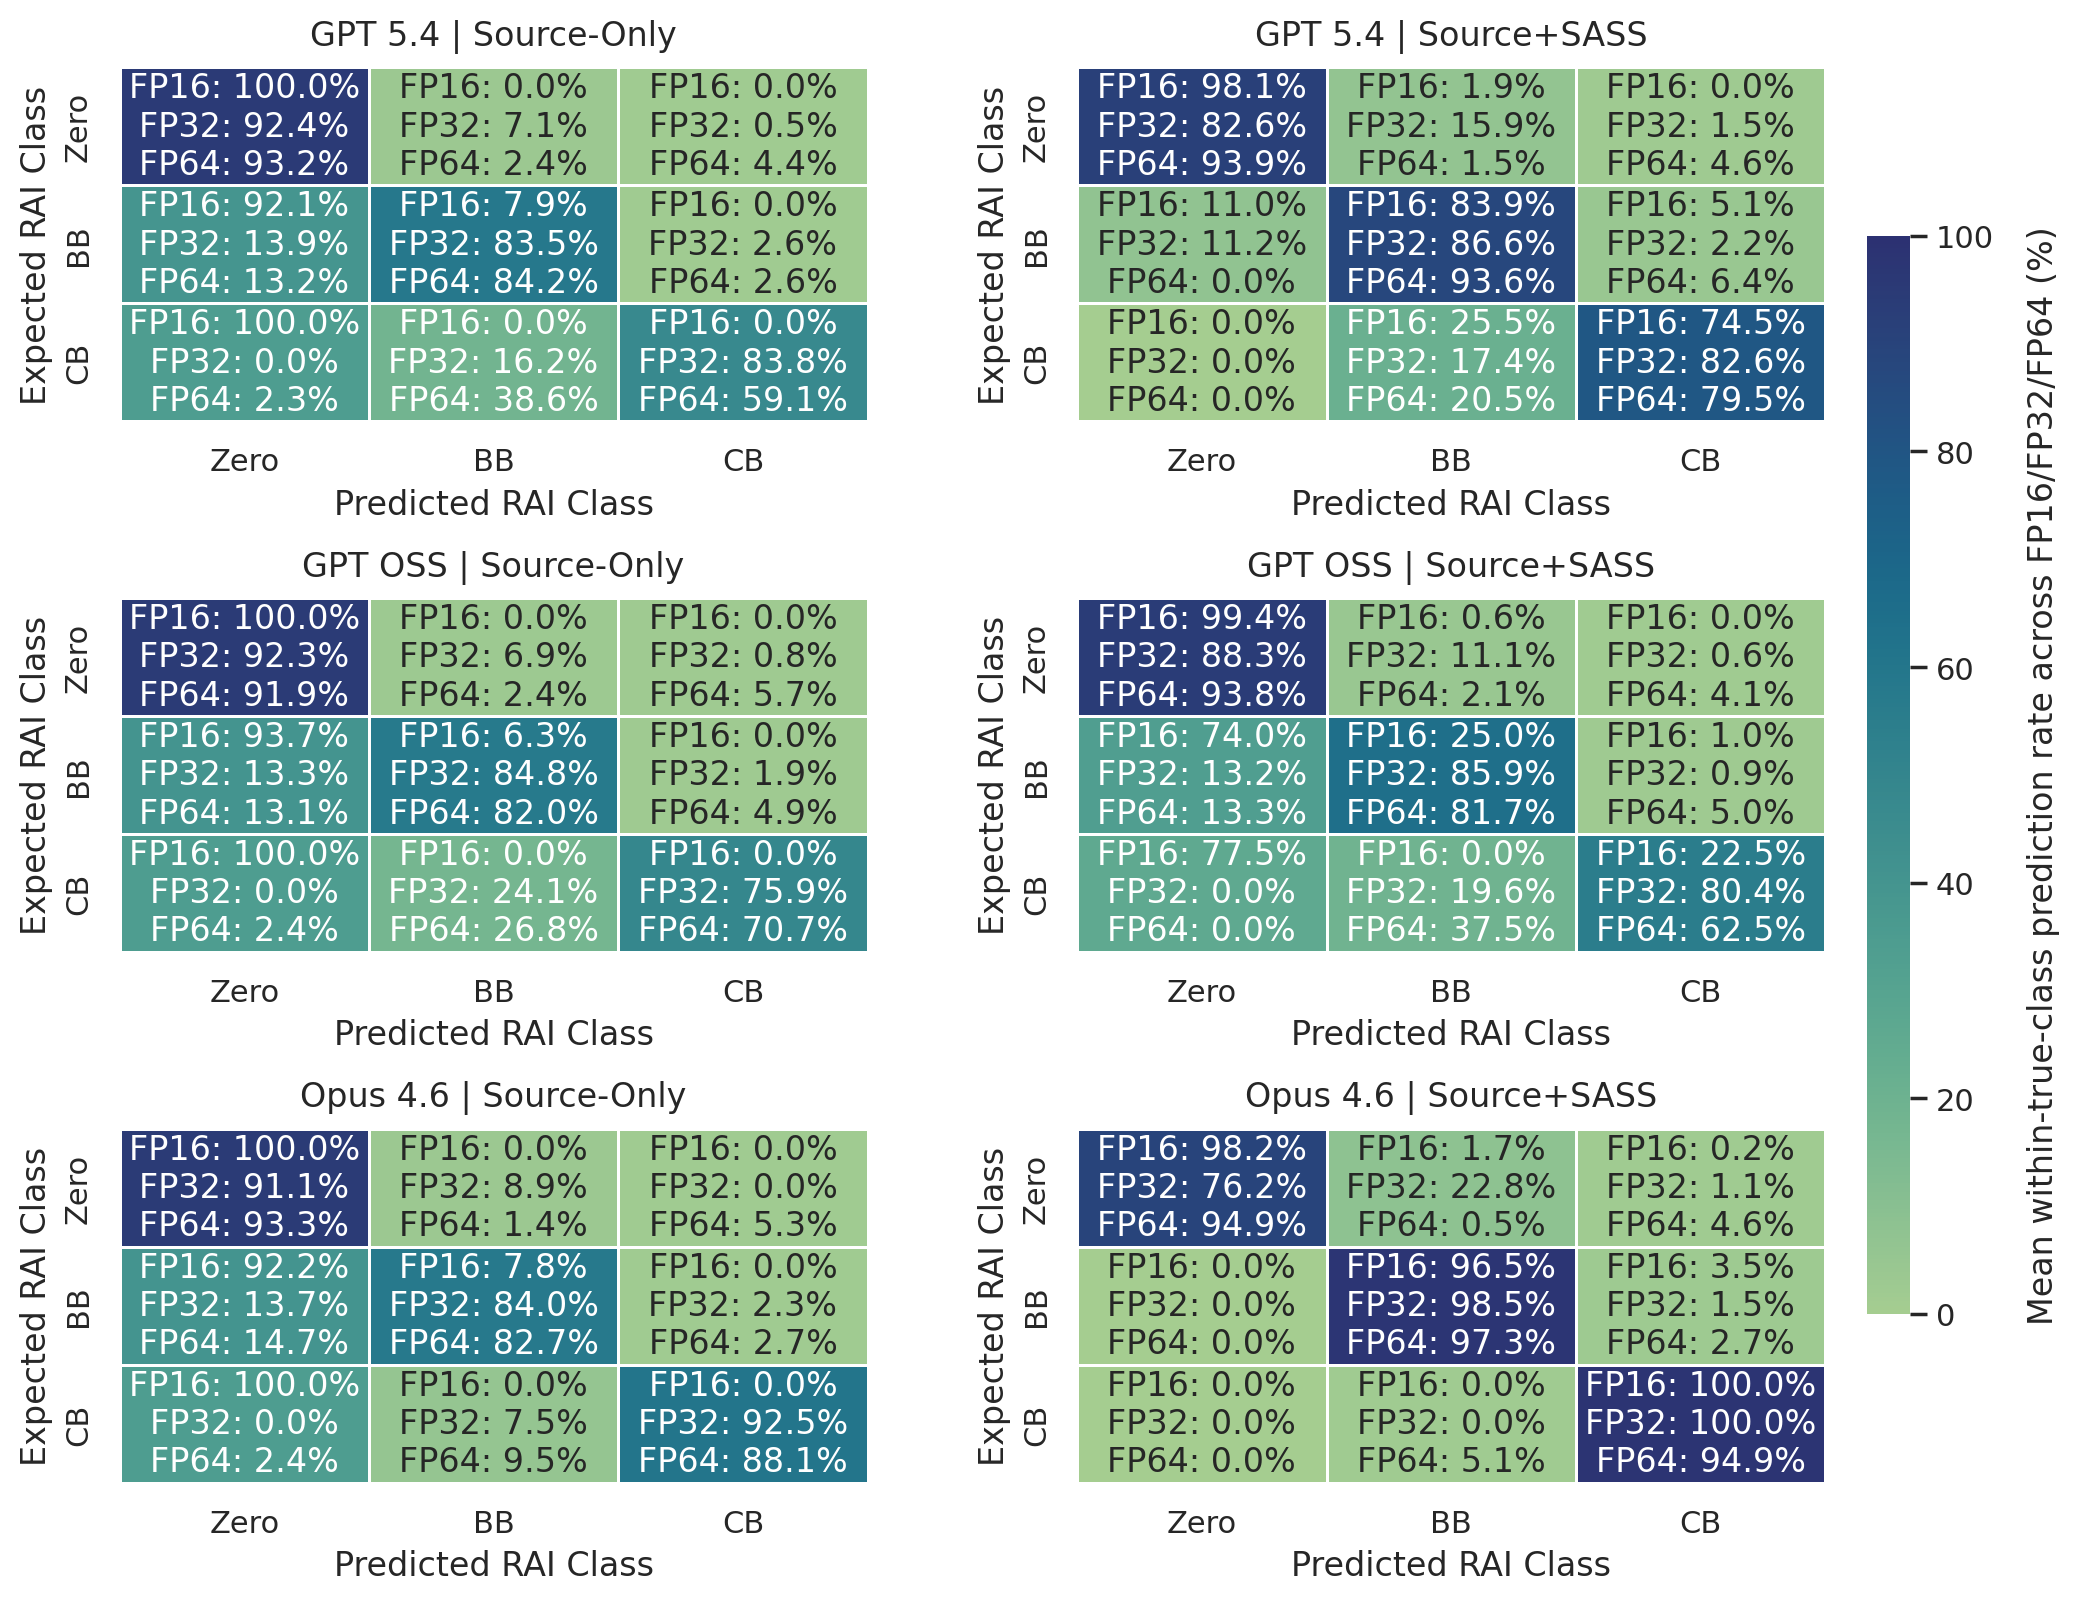
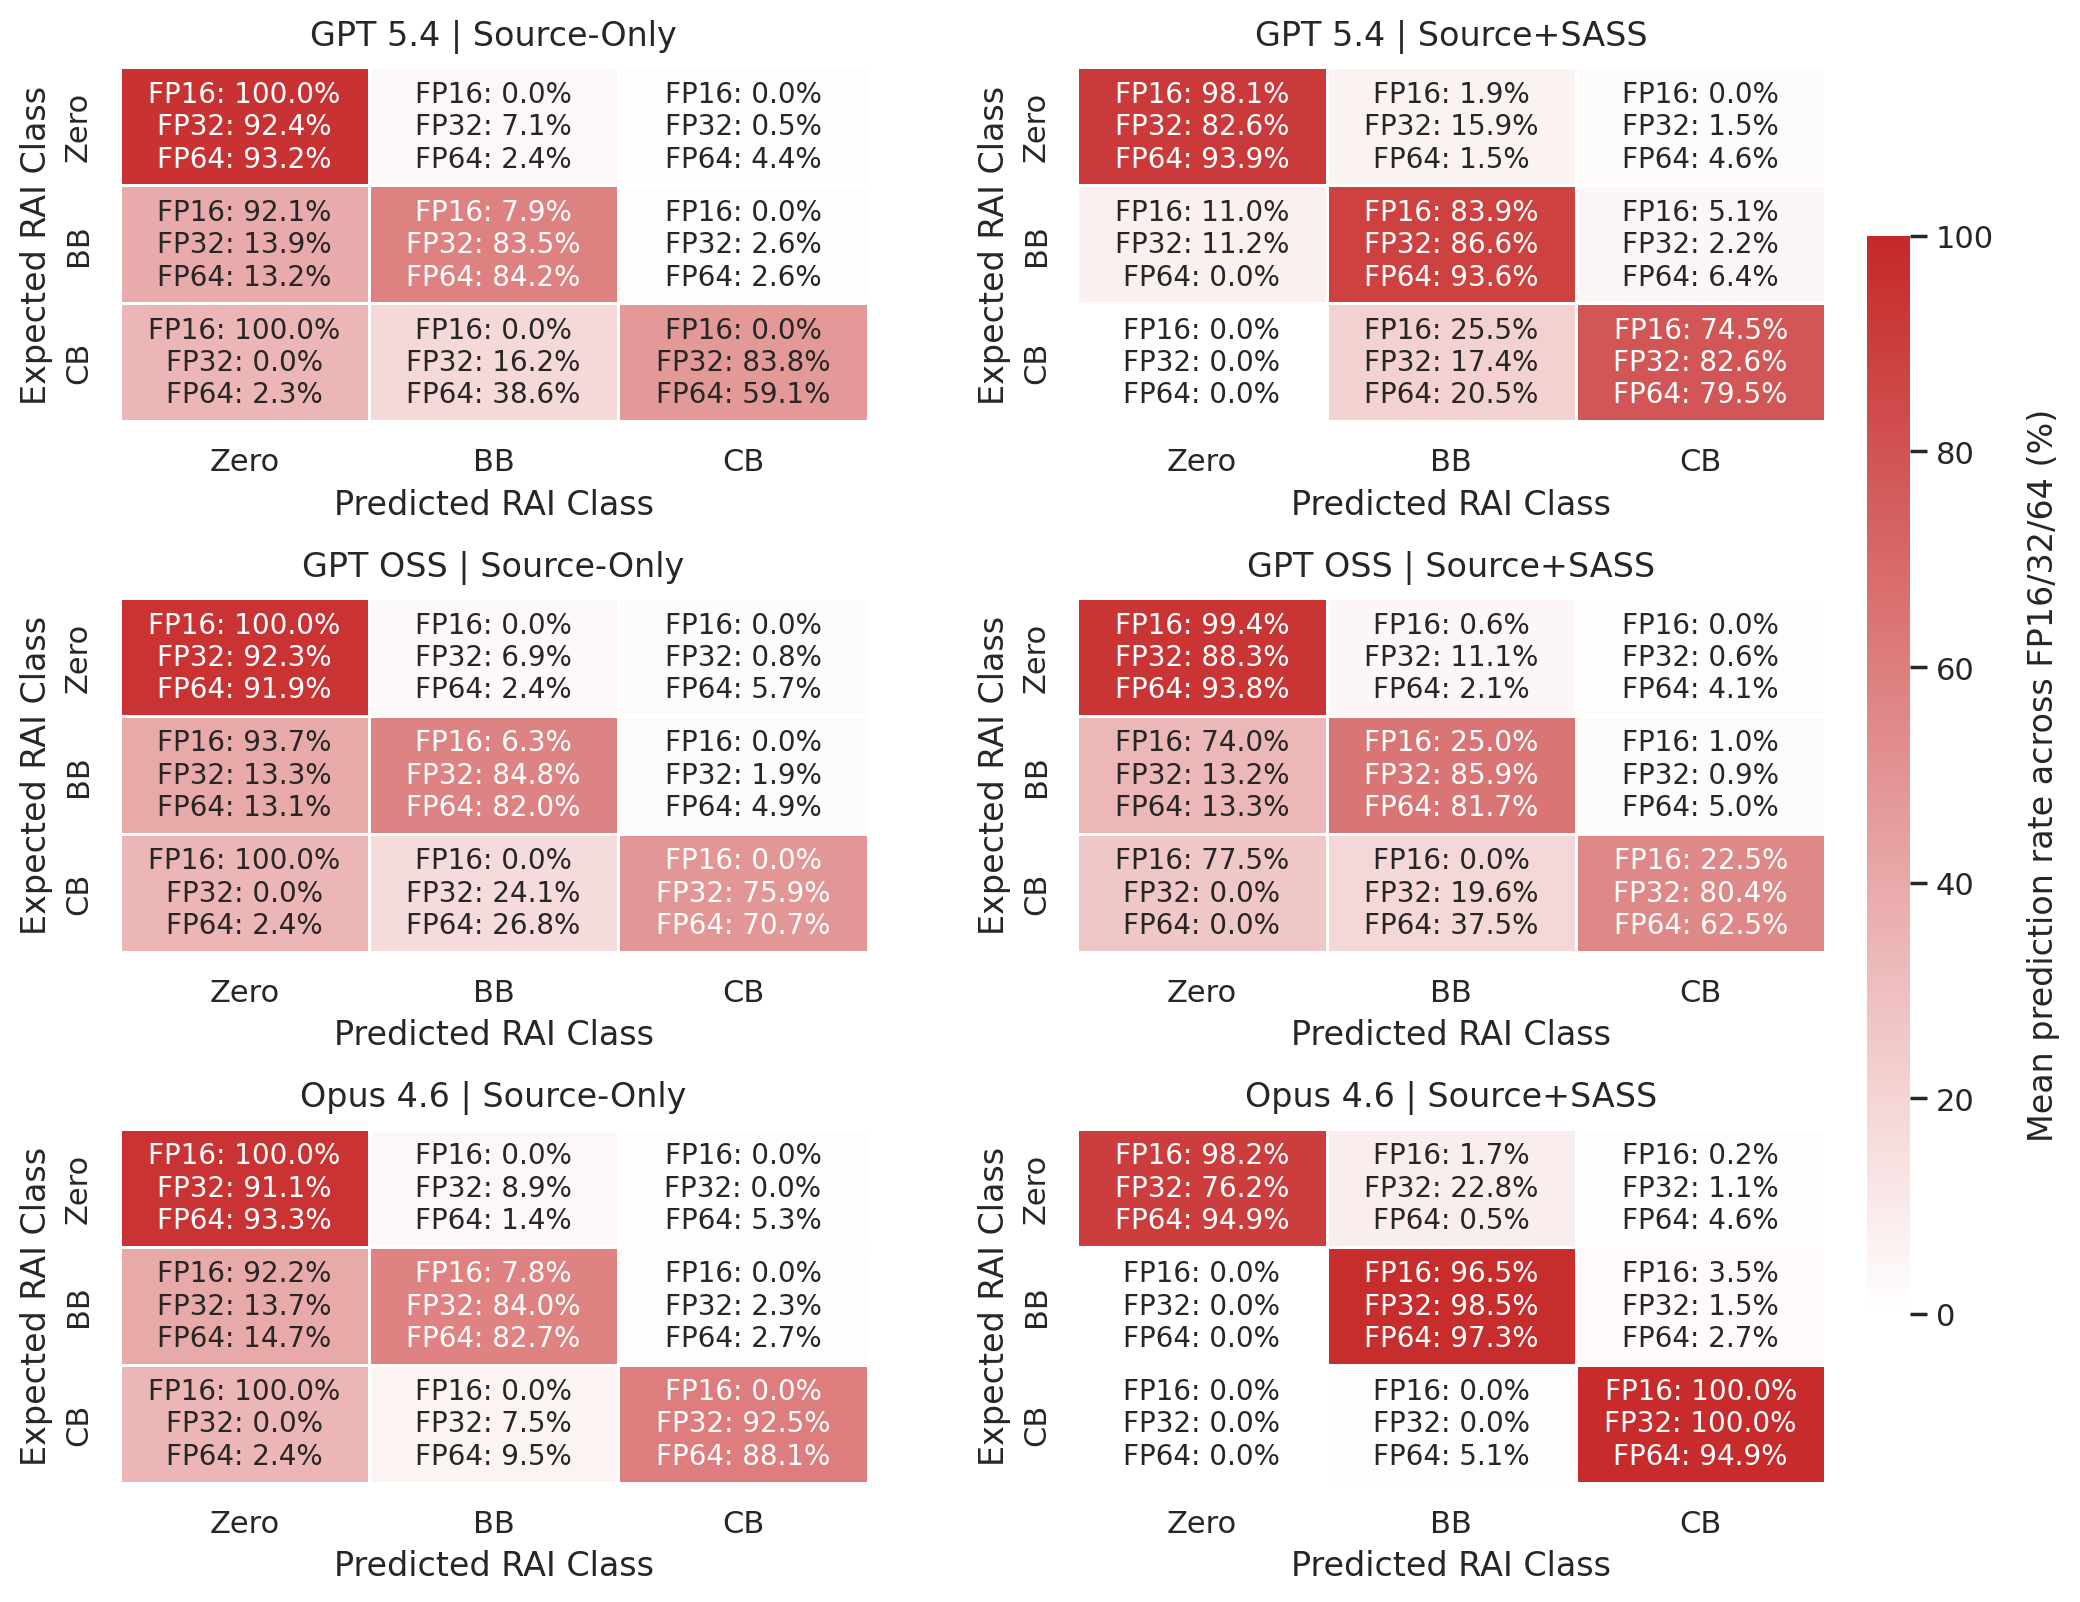
adjusted plot colors and font size

diff --git a/experiments/direct-prompting/make_plots_for_paper.py b/experiments/direct-prompting/make_plots_for_paper.py
@@ -9,6 +9,7 @@ import importlib.util
 
 import matplotlib
 from matplotlib import ticker as mticker
+from matplotlib.colors import LinearSegmentedColormap
 from matplotlib.lines import Line2D
 
 matplotlib.use("Agg")
@@ -2610,6 +2611,7 @@ def _save_figure2_5_bound_heatmaps_with_zero(plot_df: pd.DataFrame, output_path:
 	fig_height = max(9.5, 3.6 * row_count)
 	fig, axes = plt.subplots(row_count, 2, figsize=_scaled_figsize(13.5, fig_height), squeeze=False)
 	cbar_ax = fig.add_axes([0.92, 0.18, 0.02, 0.64])
+	heatmap_cmap = LinearSegmentedColormap.from_list("figure2_5_white_to_red", ["#ffffff", "#c62828"])
 	vmin = 0.0
 	vmax = 100.0
 
@@ -2626,8 +2628,9 @@ def _save_figure2_5_bound_heatmaps_with_zero(plot_df: pd.DataFrame, output_path:
 					matrix_df,
 					ax=axis,
 					annot=annotation,
+					annot_kws={"fontsize": 10},
 					fmt="",
-					cmap="crest",
+					cmap=heatmap_cmap,
 					vmin=vmin,
 					vmax=vmax,
 					cbar=(row_index == 0 and col_index == 0),
@@ -2640,7 +2643,7 @@ def _save_figure2_5_bound_heatmaps_with_zero(plot_df: pd.DataFrame, output_path:
 				axis.set_ylabel("Expected RAI Class")
 
 	if hasattr(cbar_ax, "collections") and cbar_ax.collections:
-		cbar_ax.set_ylabel("Mean within-true-class prediction rate across FP16/FP32/FP64 (%)", rotation=90, labelpad=12)
+		cbar_ax.set_ylabel("Mean prediction rate across FP16/32/64 (%)", rotation=90, labelpad=12)
 
 	fig.subplots_adjust(left=0.09, right=0.9, top=0.92, bottom=0.08, hspace=0.5, wspace=0.28)
 	fig.savefig(output_path, dpi=200, bbox_inches="tight")
